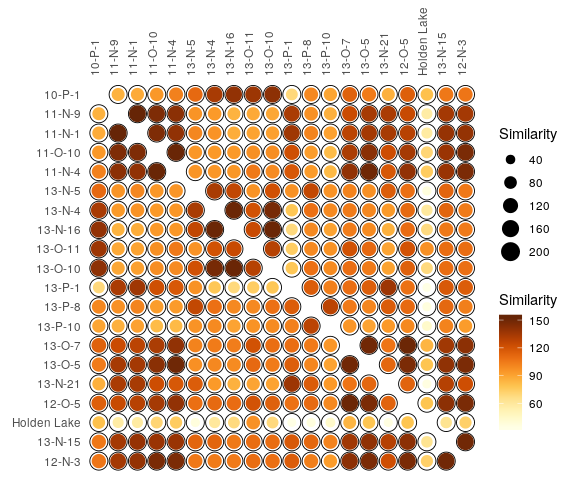
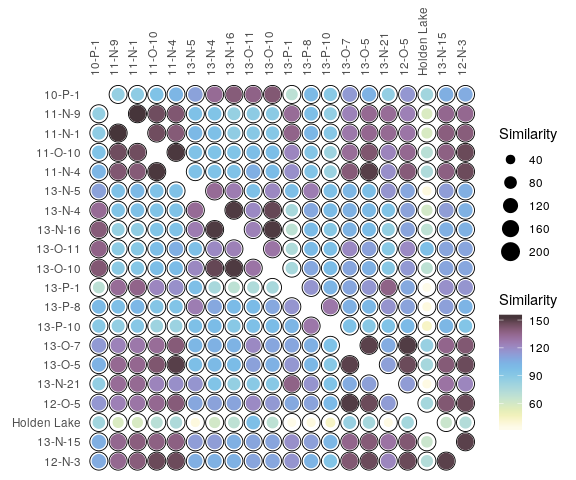
Update README

Changed region(s): [[0.1562, 0.1562, 0.9062, 1.0]]

diff --git a/README.md b/README.md
@@ -109,18 +109,7 @@ Several types of graphs are available in `tabula` which uses `ggplot2`
 for plotting informations. This makes it easy to customize diagramms
 (e.g. using themes and scales).
 
-Spot matrix (easier to read than a heatmap \[1\]) allows direct
-examination of data (above/below some threshold):
-
-``` r
-# Plot frequencies with the column means as a threshold
-ceram_counts <- as(mississippi, "CountMatrix")
-plotSpot(ceram_counts, threshold = mean) +
-  ggplot2::labs(size = "Frequency", colour = "Mean") +
-  khroma::scale_colour_vibrant()
-```
-
-<img src="man/figures/README-plot-freq-1.png" style="display: block; margin: auto;" />
+Spot matrix \[1\] allows direct examination of data:
 
 ``` r
 # Plot co-occurence of types
@@ -136,21 +125,31 @@ plotSpot(ceram_occ) +
 <img src="man/figures/README-plot-occ-1.png" style="display: block; margin: auto;" />
 
 Bertin or Ford (battleship curve) diagramms can be plotted, with
-statistic threshold (B. Desachy’s
-[*sériographe*](https://doi.org/10.3406/pica.2004.2396)). The positive
-difference from the column mean percentage (in french “écart positif au
-pourcentage moyen”, EPPM) represents a deviation from the situation of
-statistical independence. EPPM is a usefull graphical tool to explore
-significance of relationship between rows and columns related to
-seriation.
+statistic threshold.
 
 ``` r
-counts <- as(compiegne, "CountMatrix")
-plotBar(counts, EPPM = TRUE) +
+mississippi_counts <- as(mississippi, "CountMatrix")
+plotBertin(mississippi_counts, threshold = mean) +
+  khroma::scale_fill_vibrant()
+```
+
+<img src="man/figures/README-bertin-1.png" style="display: block; margin: auto;" />
+
+``` r
+compiegne_counts <- as(compiegne, "CountMatrix")
+plotFord(compiegne_counts, EPPM = TRUE) +
+  ggplot2::theme(legend.position = "bottom") +
   khroma::scale_fill_bright()
 ```
 
-<img src="man/figures/README-seriograph-1.png" style="display: block; margin: auto;" />
+<img src="man/figures/README-ford-1.png" style="display: block; margin: auto;" />
+
+The positive difference from the column mean percentage (in french
+“écart positif au pourcentage moyen”, EPPM) represents a deviation
+from the situation of statistical independence (B. Desachy’s
+[sériographe](https://doi.org/10.3406/pica.2004.2396)). EPPM is a
+usefull graphical tool to explore significance of relationship between
+rows and columns related to seriation.
 
 ### Seriation
 
@@ -164,7 +163,7 @@ incidence <- IncidenceMatrix(data = sample(0:1, 400, TRUE, c(0.6, 0.4)),
 # Correspondance analysis-based seriation
 (indices <- seriate(incidence, method = "correspondance", margin = c(1, 2)))
 #> Permutation order for matrix seriation: 
-#>    Matrix ID: a4264682-4997-4cf4-892e-2880431c5edf 
+#>    Matrix ID: 75270a94-277f-414b-b270-8da095c355cb 
 #>    Row order: 20 16 13 4 3 1 9 10 19 2 7 6 17 11 5 14 12 8 15 18 
 #>    Column order: 16 1 9 8 4 14 13 18 20 6 7 3 17 2 11 19 5 15 12 10 
 #>    Method: correspondance
@@ -189,25 +188,26 @@ plotMatrix(incidence2) +
 
 This package provides an implementation of the chronological modeling
 method developed by Bellanger and Husi
-([2012](https://doi.org/10.1016/j.jas.2011.06.031)). This allows the
-construction of two different probability estimate density curves of
-archaeological assembalge dates (the so-called *event* and
-*accumulation* dates). Note that this implementation is experimental
+([2012](https://doi.org/10.1016/j.jas.2011.06.031)). This method is
+slightly modified here and allows the construction of different
+probability density curves of archaeological assembalge dates (*event*,
+*activity* and *tempo*). Note that this implementation is experimental
 (see `help(dateEvent)`).
 
 ``` r
 # Coerce dataset to abundance (count) matrix
-zuni <- as(zuni, "CountMatrix")
+zuni_counts <- as(zuni, "CountMatrix")
 # Assume that some assemblages are reliably dated (this is NOT a real example).
 # The names of the vector entries must match the names of the assemblages.
-setDates(zuni) <- c(
+setDates(zuni_counts) <- c(
   LZ0569 = 1097, LZ0279 = 1119, CS16 = 1328, LZ0066 = 1111,
   LZ0852 = 1216, LZ1209 = 1251, CS144 = 1262, LZ0563 = 1206,
   LZ0329 = 1076, LZ0005Q = 859, LZ0322 = 1109, LZ0067 = 863,
   LZ0578 = 1180, LZ0227 = 1104, LZ0610 = 1074
 )
+
 # Model the event and accumulation date for each assemblage.
-model <- dateEvent(zuni, cutoff = 90)
+model <- dateEvent(zuni_counts, cutoff = 90)
 # Plot event and accumulation date distributions
 plotDate(model, type = "activity", select = "LZ1105") +
   ggplot2::labs(title = "Activity plot") +
@@ -224,12 +224,14 @@ plotDate(model, type = "tempo", select = "LZ1105") +
 ### Analysis
 
 *Diversity* can be measured according to several indices (sometimes
-refered to as indices of
-*heterogeneity*):
+refered to as indices of *heterogeneity*):
 
 ``` r
-H <- diversity(ceram_counts, method = c("shannon", "brillouin", "simpson", 
-                                        "mcintosh", "berger"), simplify = TRUE)
+H <- diversity(
+  mississippi_counts, 
+  method = c("shannon", "brillouin", "simpson", "mcintosh", "berger"),
+  simplify = TRUE
+)
 head(H)
 #>           shannon brillouin   simpson  mcintosh    berger
 #> 10-P-1  1.2027955 1.1572676 0.3166495 0.4714431 0.4052288
@@ -257,12 +259,12 @@ of sites:
 
 ``` r
 # Brainerd-Robinson index
-S <- similarity(ceram_counts, method = "brainerd")
+S <- similarity(mississippi_counts, method = "brainerd")
 
 # Plot the similarity matrix
 plotSpot(S) +
   ggplot2::labs(size = "Similarity", colour = "Similarity") +
-  khroma::scale_colour_YlOrBr()
+  khroma::scale_colour_iridescent()
 ```
 
 <img src="man/figures/README-similarity-brainerd-1.png" style="display: block; margin: auto;" />
@@ -271,11 +273,29 @@ Ranks *vs* abundance plot can be used for abundance models (model
 fitting will be implemented in a futur release):
 
 ``` r
-plotRank(counts, log = "xy") +
+count_merzbach1 <- as(merzbach, "CountMatrix")
+plotRank(count_merzbach1, log = "xy", facet = FALSE) +
+  khroma::scale_colour_discreterainbow() +
   ggplot2::theme_bw()
 ```
 
 <img src="man/figures/README-plot-rank-1.png" style="display: block; margin: auto;" />
+
+``` r
+## Keep only decoration types that have a maximum frequency of at least 50
+keep <- apply(X = merzbach, MARGIN = 2, FUN = function(x) max(x) >= 50)
+count_merzbach2 <- as(merzbach[, keep], "CountMatrix")
+
+## The data are grouped by phase
+## We use the row names as time coordinates (roman numerals)
+setDates(count_merzbach2) <- rownames(merzbach)
+## Plot time vs abundance and highlight selection
+plotTime(count_merzbach2, highlight = "FIT", roll = TRUE) +
+  ggplot2::theme_bw() +
+  khroma::scale_color_vibrant()
+```
+
+<img src="man/figures/README-plot-time-1.png" style="display: block; margin: auto;" />
 
 ## Contributing
 
@@ -283,5 +303,5 @@ Please note that the `tabula` project is released with a [Contributor
 Code of Conduct](CODE_OF_CONDUCT.md). By contributing to this project,
 you agree to abide by its terms.
 
-1.  Adapted from Dan Gopstein’s original [spot
-    matrix](https://dgopstein.github.io/articles/spot-matrix/).
+1.  Adapted from Dan Gopstein’s original
+    [idea](https://dgopstein.github.io/articles/spot-matrix/).
